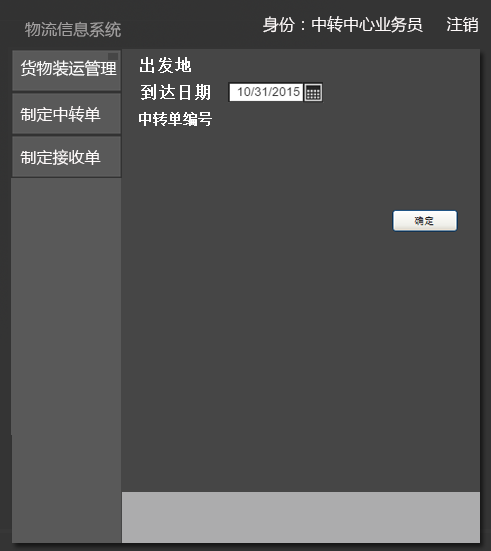
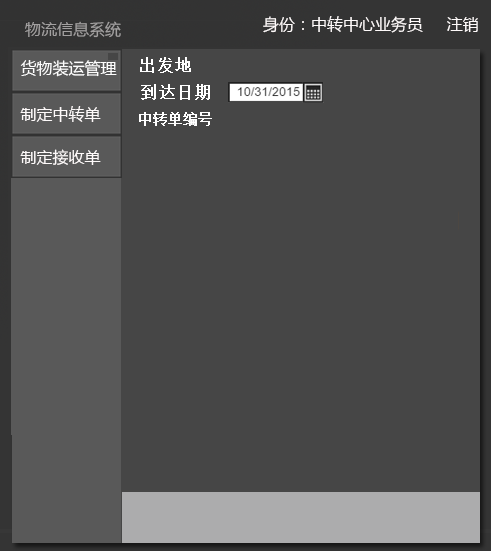
transit

Changed region(s): [[0.7943, 0.3702, 0.947, 0.4319]]

diff --git a/ExpressSystem/client/src/main/java/nju/sec/yz/ExpressSystem/presentation/transitui/TransitReceiptTrain.java b/ExpressSystem/client/src/main/java/nju/sec/yz/ExpressSystem/presentation/transitui/TransitReceiptTrain.java
@@ -22,7 +22,9 @@ import javax.swing.table.DefaultTableModel;
 import javax.swing.table.TableModel;
 
 import nju.sec.yz.ExpressSystem.bl.deliverbl.DeliverController;
+import nju.sec.yz.ExpressSystem.bl.managerbl.ManagerController;
 import nju.sec.yz.ExpressSystem.blservice.deliverBlService.DeliverBlService;
+import nju.sec.yz.ExpressSystem.blservice.managerBlService.AgencyBlService;
 import nju.sec.yz.ExpressSystem.common.Result;
 import nju.sec.yz.ExpressSystem.common.ResultMessage;
 import nju.sec.yz.ExpressSystem.common.TransitFlightInformation;
@@ -30,60 +32,67 @@ import nju.sec.yz.ExpressSystem.common.TransportType;
 import nju.sec.yz.ExpressSystem.presentation.DateChooser;
 import nju.sec.yz.ExpressSystem.presentation.controlerui.ClientControler;
 import nju.sec.yz.ExpressSystem.vo.TransitSheetVO;
+import nju.sec.yz.ExpressSystem.vo.TransitVO;
 
-public class TransitReceiptTrain extends JPanel{
-DeliverBlService deliverblservice=new DeliverController();
+public class TransitReceiptTrain extends JPanel {
+	DeliverBlService deliverblservice = new DeliverController();
+	private AgencyBlService manager = new ManagerController();
 	
 	ClientControler maincontrol;
 	TransitButtonComponents tbc;
-	
-	
+
 	private JTextField trainId;
 	private JTextField carriageId;
 	private JTextField transiterId;
-	
+
 	private JComboBox departure;
 	private JComboBox destination;
 	private JTable barId;
 	private TableModel model;
-	
+
 	private JButton confirm;
-	
+
 	private JLabel trainTransitId;
 	private JLabel fare;
-	private JLabel warning=new JLabel();
-	public TransitReceiptTrain(ClientControler maincontrol,TransitButtonComponents tbc) {
-		this.maincontrol=maincontrol;
-		this.tbc=tbc;
+	private JLabel warning = new JLabel();
+
+	public TransitReceiptTrain(ClientControler maincontrol, TransitButtonComponents tbc) {
+		this.maincontrol = maincontrol;
+		this.tbc = tbc;
 		tbc.setNextPanel(this);
 		tbc.change();
 		iniTransReceiptTrain();
-		
+
 	}
+
 	private void iniTransReceiptTrain() {
 		setLayout(null);
 		setSize(490, 550);
-		setVisible(true);	
-DateChooser date=new DateChooser(this, 212, 81);
-		
-		String[] transitAgency={};
-		
-		departure=new JComboBox(transitAgency);
-		departure.setBounds(202,58,70,20);
+		setVisible(true);
+		DateChooser date = new DateChooser(this, 212, 81);
+
+		ArrayList<TransitVO> trans = manager.observeAllTransit();
+		String[] transitAgency = new String[trans.size()];
+		for (int i = 0; i < trans.size(); i++) {
+			transitAgency[i] = trans.get(i).getName();
+		}
+
+		departure = new JComboBox(transitAgency);
+		departure.setBounds(198, 56, 80, 20);
 		add(departure);
-		
-		destination=new JComboBox(transitAgency);
-		destination.setBounds(350,58,70,20);
+
+		destination = new JComboBox(transitAgency);
+		destination.setBounds(346, 56, 80, 20);
 		add(destination);
-		
-		trainId=new JTextField();
+
+		trainId = new JTextField();
 		trainId.setBounds(192, 110, 184, 18);
 		add(trainId);
-		
-		carriageId=new JTextField();
+
+		carriageId = new JTextField();
 		carriageId.setBounds(192, 138, 141, 18);
 		add(carriageId);
-		
+
 		transiterId = new JTextField();
 		transiterId.setBounds(405, 138, 50, 18);
 		add(transiterId);
@@ -99,8 +108,7 @@ DateChooser date=new DateChooser(this, 212, 81);
 		jsc.setVisible(true);
 		jsc.setBounds(137, 218, 329, 191);
 		add(jsc);
-			
-			
+
 		// 使得表格大小随订单信息的填入而改变
 		model.addTableModelListener(new TableModelListener() {
 			@Override
@@ -115,8 +123,6 @@ DateChooser date=new DateChooser(this, 212, 81);
 				repaint();
 			}
 		});
-		
-		
 
 		/*
 		 * 确定
@@ -131,7 +137,7 @@ DateChooser date=new DateChooser(this, 212, 81);
 			public void mouseClicked(MouseEvent e) {
 				// 判断必填项是否填写完成
 				if ((trainId.getText().equals("")) || (carriageId.getText().equals(""))
-						|| (transiterId.getText().equals("")) ) {
+						|| (transiterId.getText().equals(""))) {
 					warning.setText("尚未完成对必填项的填写");
 					warning.setBounds(198, 490, 463 - 198, 30);
 					warning.setFont(new Font("Dialog", 1, 15));
@@ -140,63 +146,62 @@ DateChooser date=new DateChooser(this, 212, 81);
 					add(warning);
 					repaint();
 				} else {
-					ArrayList<String> BarIdArray=new ArrayList<String>();
-					for(int i=0;i<barId.getRowCount()-1;i++){
+					ArrayList<String> BarIdArray = new ArrayList<String>();
+					for (int i = 0; i < barId.getRowCount() - 1; i++) {
 						BarIdArray.add((String) barId.getValueAt(i, 1));
 					}
-				TransitSheetVO vo=new TransitSheetVO();
-					//destinationId项不存在，用null写入
+					TransitSheetVO vo = new TransitSheetVO();
+					// destinationId项不存在，用null写入
 					TransitFlightInformation flightInf = new TransitFlightInformation(date.getTime(),
 							departure.getSelectedItem().toString(), destination.getSelectedItem().toString(),
 							transiterId.getText().toString(), BarIdArray);
 					flightInf.setFlightId(trainId.getText());
 					flightInf.setShelfId(carriageId.getText());
-			    vo.setTransportType(TransportType.TRAIN);
-				vo.setTransitInformation(flightInf);
-				ResultMessage result=deliverblservice.transitTrainReceipt(vo);
-				//成功
-				if(result.getResult()==Result.SUCCESS){
-					
-					warning.setText("提交成功");
-					warning.setBounds(270, 490, 70, 30);
-					warning.setFont(new Font("Dialog", 1, 15));
-					warning.setForeground(Color.red);
-					warning.setVisible(true);
-					add(warning);
-					
-					fare = new JLabel();
-					fare.setText(Double.toString(flightInf.getFare()) + "元");
-					fare.setBounds(180, 192, 70, 30);
-					fare.setForeground(Color.GRAY);
-					fare.setFont(new Font("Dialog", 0, 18));
-					fare.setVisible(true);
-					add(fare);
-					
-					trainTransitId = new JLabel();
-					trainTransitId.setText(flightInf.getFlightTransitId());
-					trainTransitId.setBounds(290, 165, 140, 30);
-					trainTransitId.setForeground(Color.GRAY);
-					trainTransitId.setFont(new Font("Dialog", 0, 18));
-					trainTransitId.setVisible(true);
-					add(trainTransitId);
-					
-					
-					repaint();
-				}else{
-					//失败
-					warning.setText(result.getMessage());
-					warning.setBounds(138, 490, 463 - 138, 30);
-					warning.setFont(new Font("Dialog", 1, 15));
-					warning.setForeground(Color.red);
-					add(warning);
-					repaint();
-				}
+					vo.setTransportType(TransportType.TRAIN);
+					vo.setTransitInformation(flightInf);
+					ResultMessage result = deliverblservice.transitTrainReceipt(vo);
+					// 成功
+					if (result.getResult() == Result.SUCCESS) {
+
+						warning.setText("提交成功");
+						warning.setBounds(270, 490, 70, 30);
+						warning.setFont(new Font("Dialog", 1, 15));
+						warning.setForeground(Color.red);
+						warning.setVisible(true);
+						add(warning);
+
+						fare = new JLabel();
+						fare.setText(Double.toString(flightInf.getFare()) + "元");
+						fare.setBounds(180, 192, 70, 30);
+						fare.setForeground(Color.GRAY);
+						fare.setFont(new Font("Dialog", 0, 18));
+						fare.setVisible(true);
+						add(fare);
+
+						trainTransitId = new JLabel();
+						trainTransitId.setText(flightInf.getFlightTransitId());
+						trainTransitId.setBounds(290, 165, 140, 30);
+						trainTransitId.setForeground(Color.GRAY);
+						trainTransitId.setFont(new Font("Dialog", 0, 18));
+						trainTransitId.setVisible(true);
+						add(trainTransitId);
+
+						repaint();
+					} else {
+						// 失败
+						warning.setText(result.getMessage());
+						warning.setBounds(138, 490, 463 - 138, 30);
+						warning.setFont(new Font("Dialog", 1, 15));
+						warning.setForeground(Color.red);
+						add(warning);
+						repaint();
+					}
 				}
 			}
-		});	
+		});
 
 	}
-	
+
 	@Override
 	public void paintComponent(Graphics g) {
 

diff --git a/ExpressSystem/client/src/main/java/nju/sec/yz/ExpressSystem/presentation/transitui/TransitReceiptCar.java b/ExpressSystem/client/src/main/java/nju/sec/yz/ExpressSystem/presentation/transitui/TransitReceiptCar.java
@@ -22,7 +22,9 @@ import javax.swing.table.DefaultTableModel;
 import javax.swing.table.TableModel;
 
 import nju.sec.yz.ExpressSystem.bl.deliverbl.DeliverController;
+import nju.sec.yz.ExpressSystem.bl.managerbl.ManagerController;
 import nju.sec.yz.ExpressSystem.blservice.deliverBlService.DeliverBlService;
+import nju.sec.yz.ExpressSystem.blservice.managerBlService.AgencyBlService;
 import nju.sec.yz.ExpressSystem.common.Result;
 import nju.sec.yz.ExpressSystem.common.ResultMessage;
 import nju.sec.yz.ExpressSystem.common.TransitFlightInformation;
@@ -30,6 +32,7 @@ import nju.sec.yz.ExpressSystem.common.TransportType;
 import nju.sec.yz.ExpressSystem.presentation.DateChooser;
 import nju.sec.yz.ExpressSystem.presentation.controlerui.ClientControler;
 import nju.sec.yz.ExpressSystem.vo.TransitSheetVO;
+import nju.sec.yz.ExpressSystem.vo.TransitVO;
 
 public class TransitReceiptCar extends JPanel{
 	
@@ -37,7 +40,7 @@ DeliverBlService deliverblservice=new DeliverController();
 	
 	ClientControler maincontrol;
 	TransitButtonComponents tbc;
-	
+	private AgencyBlService manager = new ManagerController();
 	
 	private JTextField carId;
 	private JTextField driverId;
@@ -67,14 +70,18 @@ DeliverBlService deliverblservice=new DeliverController();
 		setSize(490, 550);
 		setVisible(true);	DateChooser date=new DateChooser(this, 212, 81);
 		
-		String[] transitAgency={};
+		ArrayList<TransitVO> trans=manager.observeAllTransit();
+		String[] transitAgency=new String[trans.size()];
+		for(int i=0;i<trans.size();i++){
+			transitAgency[i]=trans.get(i).getName();
+			}
 		
 		departure=new JComboBox(transitAgency);
-		departure.setBounds(202,56,70,20);
+		departure.setBounds(198,56,80,20);
 		add(departure);
 		
 		destination=new JComboBox(transitAgency);
-		destination.setBounds(350,56,70,20);
+		destination.setBounds(346,56,80,20);
 		add(destination);
 		
 		carId=new JTextField();

diff --git a/ExpressSystem/client/src/main/java/nju/sec/yz/ExpressSystem/presentation/transitui/TransitReceiptFlight.java b/ExpressSystem/client/src/main/java/nju/sec/yz/ExpressSystem/presentation/transitui/TransitReceiptFlight.java
@@ -22,7 +22,9 @@ import javax.swing.table.DefaultTableModel;
 import javax.swing.table.TableModel;
 
 import nju.sec.yz.ExpressSystem.bl.deliverbl.DeliverController;
+import nju.sec.yz.ExpressSystem.bl.managerbl.ManagerController;
 import nju.sec.yz.ExpressSystem.blservice.deliverBlService.DeliverBlService;
+import nju.sec.yz.ExpressSystem.blservice.managerBlService.AgencyBlService;
 import nju.sec.yz.ExpressSystem.common.LoadInformation;
 import nju.sec.yz.ExpressSystem.common.Result;
 import nju.sec.yz.ExpressSystem.common.ResultMessage;
@@ -30,11 +32,14 @@ import nju.sec.yz.ExpressSystem.common.TransitFlightInformation;
 import nju.sec.yz.ExpressSystem.common.TransportType;
 import nju.sec.yz.ExpressSystem.presentation.DateChooser;
 import nju.sec.yz.ExpressSystem.presentation.controlerui.ClientControler;
+import nju.sec.yz.ExpressSystem.vo.PositionVO;
 import nju.sec.yz.ExpressSystem.vo.TransitSheetVO;
+import nju.sec.yz.ExpressSystem.vo.TransitVO;
 
 public class TransitReceiptFlight extends JPanel{
 	
 	DeliverBlService deliverblservice=new DeliverController();
+	private AgencyBlService manager = new ManagerController();
 	
 	ClientControler maincontrol;
 	TransitButtonComponents tbc;
@@ -70,14 +75,20 @@ public class TransitReceiptFlight extends JPanel{
 		
 		DateChooser date=new DateChooser(this, 212, 81);
 		
-		String[] transitAgency={};
+		
+		
+		ArrayList<TransitVO> trans=manager.observeAllTransit();
+		String[] transitAgency=new String[trans.size()];
+		for(int i=0;i<trans.size();i++){
+			transitAgency[i]=trans.get(i).getName();
+			}
 		
 		departure=new JComboBox(transitAgency);
-		departure.setBounds(202,56,70,20);
+		departure.setBounds(198,56,80,20);
 		add(departure);
 		
 		destination=new JComboBox(transitAgency);
-		destination.setBounds(350,56,70,20);
+		destination.setBounds(346,56,80,20);
 		add(destination);
 		
 		flightId=new JTextField();

diff --git a/ExpressSystem/client/src/main/java/nju/sec/yz/ExpressSystem/presentation/transitui/TransitLoading.java b/ExpressSystem/client/src/main/java/nju/sec/yz/ExpressSystem/presentation/transitui/TransitLoading.java
@@ -22,17 +22,22 @@ import javax.swing.table.DefaultTableModel;
 import javax.swing.table.TableModel;
 
 import nju.sec.yz.ExpressSystem.bl.deliverbl.DeliverController;
+import nju.sec.yz.ExpressSystem.bl.managerbl.ManagerController;
 import nju.sec.yz.ExpressSystem.blservice.deliverBlService.DeliverBlService;
+import nju.sec.yz.ExpressSystem.blservice.managerBlService.AgencyBlService;
 import nju.sec.yz.ExpressSystem.common.LoadInformation;
 import nju.sec.yz.ExpressSystem.common.Result;
 import nju.sec.yz.ExpressSystem.common.ResultMessage;
 import nju.sec.yz.ExpressSystem.presentation.DateChooser;
 import nju.sec.yz.ExpressSystem.presentation.controlerui.ClientControler;
+import nju.sec.yz.ExpressSystem.vo.PositionVO;
 import nju.sec.yz.ExpressSystem.vo.TransitLoadSheetVO;
+import nju.sec.yz.ExpressSystem.vo.TransitVO;
 
 public class TransitLoading extends JPanel{
 	
 	DeliverBlService deliverblservice=new DeliverController();
+	private AgencyBlService manager=new ManagerController();
 	
 	private ClientControler maincontrol;
 	private TransitButtonComponents tbc;
@@ -67,7 +72,21 @@ public class TransitLoading extends JPanel{
 		
 		DateChooser date=new DateChooser(this, 220, 81);
 		
-		String[] agency={};
+		int count=0;
+		ArrayList<TransitVO> trans=manager.observeAllTransit();
+		for(int i=0;i<trans.size();i++){
+			count+=trans.get(i).getPositions().size();
+		}
+		String[] agency=new String[count];
+		count=0;
+		for(int i=0;i<trans.size();i++){
+			ArrayList<PositionVO> temp=(ArrayList<PositionVO>) trans.get(i).getPositions();
+			for(int k=0;k<temp.size();k++){
+				agency[count]=temp.get(k).getName();
+				count++;
+			}
+			
+		}
 		agencyId=new JComboBox(agency);
 		agencyId.setBounds(202,56,125,20);
 		add(agencyId);

diff --git a/ExpressSystem/client/src/main/java/nju/sec/yz/ExpressSystem/presentation/managerui/ManagerAgencyList.java b/ExpressSystem/client/src/main/java/nju/sec/yz/ExpressSystem/presentation/managerui/ManagerAgencyList.java
@@ -164,7 +164,7 @@ public class ManagerAgencyList extends JPanel{
 			
 			ImageIcon backIcon = new ImageIcon("graphic/manager/button/back.png");
 			back = new JButton(backIcon);
-			back.setBounds(290, 286, 81, 20);
+			back.setBounds(370, 286, 81, 20);
 			add(back);
 			
 			back.addMouseListener(new MouseAdapter() {
